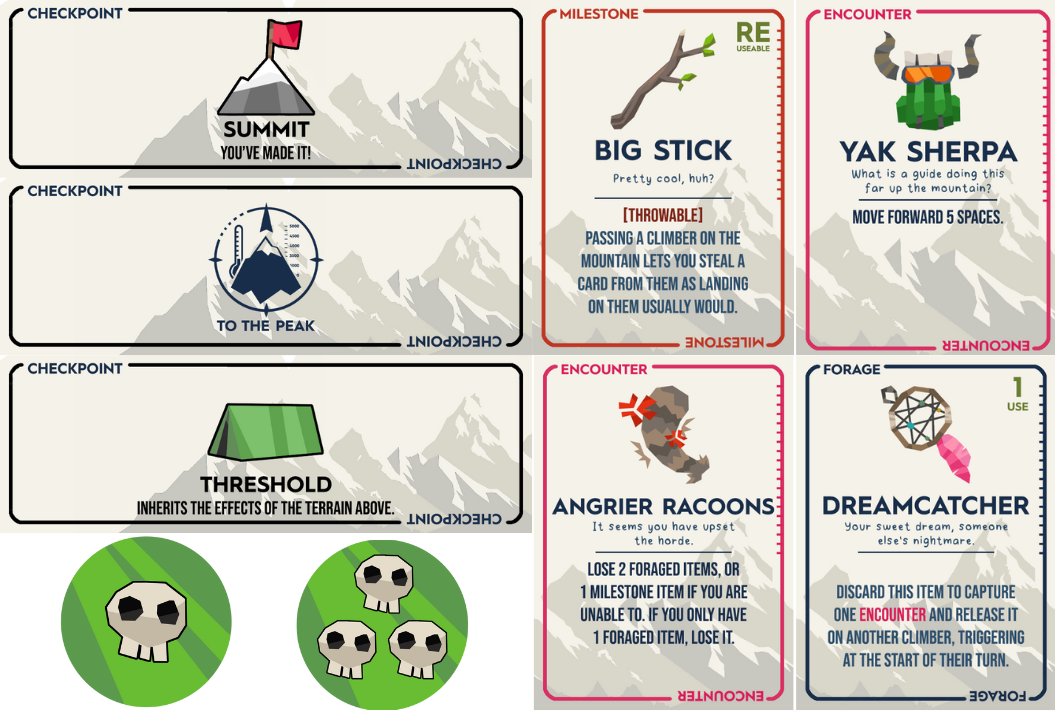
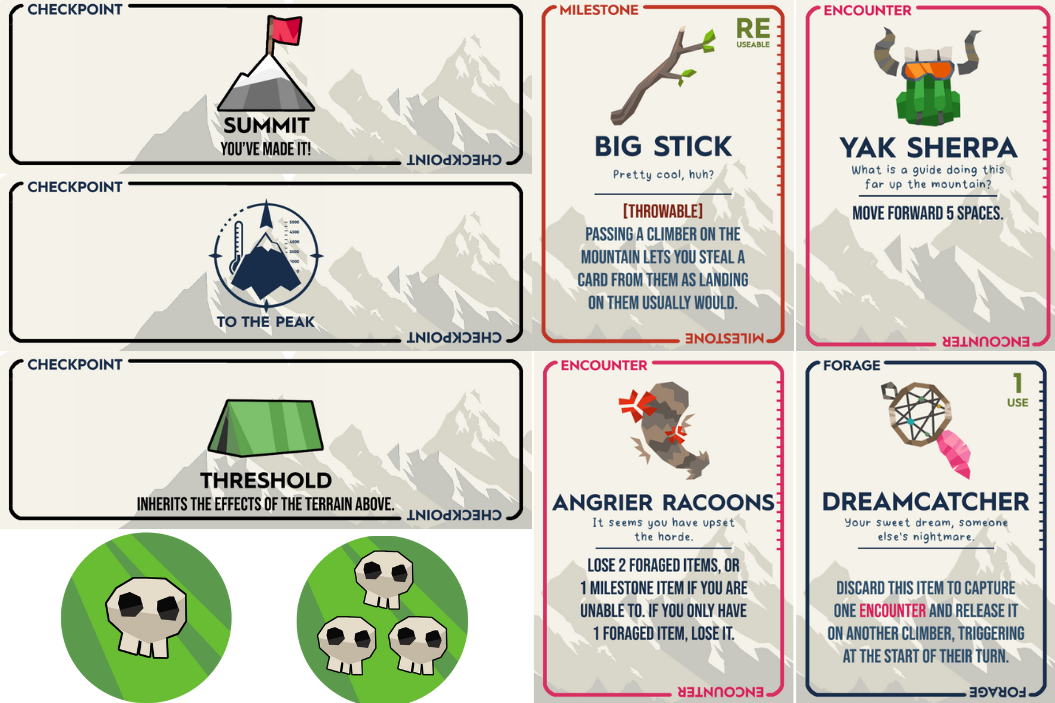
shadows

diff --git a/index.html b/index.html
@@ -23,8 +23,29 @@
     
     <!-- Content -->
     <div class="relative text-center z-10">
-      <h1 class="text-9xl fancy-font mb-4" style="color:whitesmoke">Josh Thies</h1>
-      <p class="text-5xl fancy-font mb-4" style="color:rgb(36, 6, 36)">Game Developer • Sound Engineer • Musician</p>
+      <h1 class="text-9xl fancy-font mb-4" style="color:whitesmoke;
+      text-shadow: 
+             1px 1px 2px rgba(36, 6, 36,0.2),
+            -1px 1px 2px rgba(36, 6, 36,0.2),
+             1px -1px 2px rgba(36, 6, 36,0.2),
+            -1px -1px 2px rgba(36, 6, 36,0.2),
+             0px 1px 2px rgba(36, 6, 36,0.2),
+             0px -1px 2px rgba(36, 6, 36,0.2),
+             1px 0px 2px rgba(36, 6, 36,0.2),
+            -1px 0px 2px rgba(36, 6, 36,0.2);">Josh Thies</h1>
+      <p class="text-5xl fancy-font mb-4" 
+   style="color: rgb(36, 6, 36); 
+          text-shadow: 
+             1px 1px 2px rgba(255,255,255,0.1),
+            -1px 1px 2px rgba(255,255,255,0.1),
+             1px -1px 2px rgba(255,255,255,0.1),
+            -1px -1px 2px rgba(255,255,255,0.1),
+             0px 1px 2px rgba(255,255,255,0.1),
+             0px -1px 2px rgba(255,255,255,0.1),
+             1px 0px 2px rgba(255,255,255,0.1),
+            -1px 0px 2px rgba(255,255,255,0.1);">
+   Game Developer • Sound Engineer • Musician
+      </p>
     </div>
   </section>
 
@@ -91,12 +112,12 @@
   <div class="max-w-6xl mx-auto grid grid-cols-1 sm:grid-cols-2 lg:grid-cols-3 gap-8">
 
     <!-- Card 1: Terrains and Classes -->
-    <a href="terrains.jpg" target="_blank" class="block">
+    <a href="terrains.png" target="_blank" class="block">
       <div class="bg-white bg-opacity-20 rounded-2xl shadow-lg overflow-hidden hover:scale-105 transition-transform duration-300">
-        <img src="terrains.jpg" alt="Terrains and Classes" class="w-full h-64 object-cover">
+        <img src="terrains.png" alt="Terrains and Classes" class="w-full h-auto object-cover">
         <div class="p-4">
           <h3 class="text-xl font-semibold mb-2" style="color:#1F4B33;">Terrains and Classes</h3>
-          <p class="text-sm" style="color:#1F4B33;">Both player classes and the mountain itself made of cards to be easily set up and fit neatly into a travel sized box.</p>
+          <p class="text-sm" style="color:#1F4B33;">Both player classes and the mountain itself made of cards to be easily set up and fit a travel sized box.</p>
         </div>
       </div>
     </a>
@@ -107,7 +128,7 @@
         <img src="Components.png" alt="Game Components" class="w-full h-auto object-cover">
         <div class="p-4">
           <h3 class="text-xl font-semibold mb-2" style="color:#1F4B33;">Game Components</h3>
-          <p class="text-sm" style="color:#1F4B33;">Handcrafted cards and pieces designed to give stimulating visual aids to the players during their supernatural climb.</p>
+          <p class="text-sm" style="color:#1F4B33;">Handcrafted cards and pieces designed to give visual aids to players during their supernatural climb.</p>
         </div>
       </div>
     </a>
